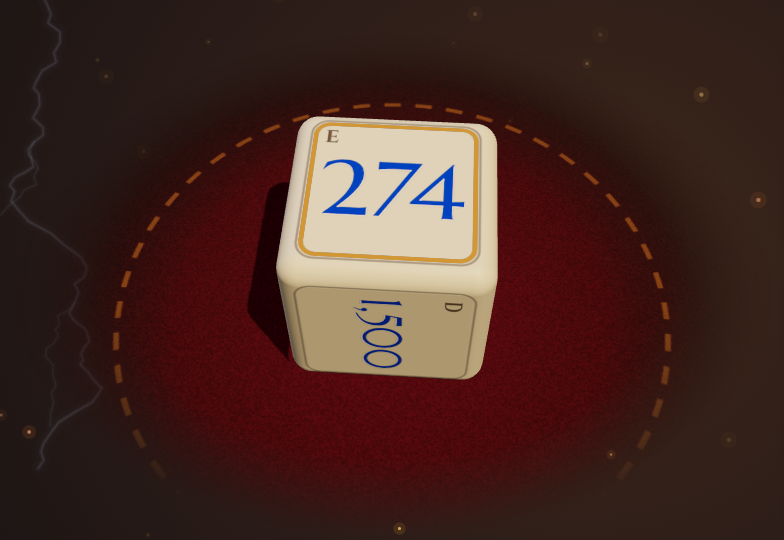
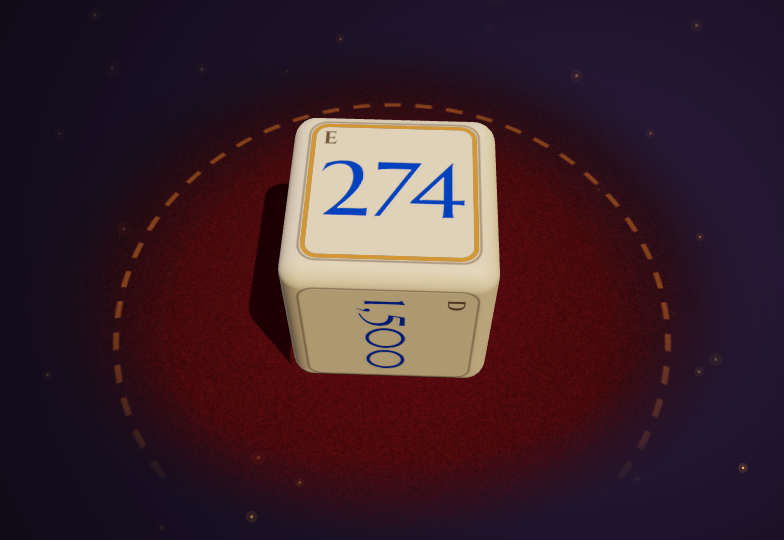
Switch the page from brown to a plum night palette
The brown background was too close in tone to the gold and crimson felt,
so nothing stood out. Plum lets the gold, parchment and felt read clearly
and ties in with the violet magic effect.

- Page background, theme-color and manifest colours are now plum
- Felt mat edge fades through crimson-plum instead of brown
- Dialog backdrop tinted to match
- Share image re-rendered on plum

diff --git a/src/style.css b/src/style.css
@@ -7,8 +7,9 @@
 @import '@fontsource/eb-garamond/400-italic.css';
 
 :root {
-  --table: #120d0b;
-  --table-2: #2a1a12;
+  --table: #0b0712;
+  --table-2: #1c1228;
+  --table-glow: #2f1d40;
   --gold: #c8902a;
   --gold-soft: #e4b965;
   --parchment: #f1e6cf;
@@ -32,7 +33,7 @@ body {
   font-family: var(--font-body);
   font-size: 18px;
   background:
-    radial-gradient(ellipse at 50% 35%, #3a2416 0%, var(--table-2) 35%, var(--table) 80%) fixed,
+    radial-gradient(ellipse at 50% 35%, var(--table-glow) 0%, var(--table-2) 35%, var(--table) 80%) fixed,
     var(--table);
   -webkit-tap-highlight-color: transparent;
 }
@@ -272,7 +273,7 @@ kbd {
   background: linear-gradient(180deg, var(--parchment), var(--parchment-2));
   box-shadow: 0 30px 80px rgba(0, 0, 0, 0.7);
 }
-.modal::backdrop { background: rgba(8, 5, 3, 0.75); backdrop-filter: blur(3px); }
+.modal::backdrop { background: rgba(11, 7, 18, 0.75); backdrop-filter: blur(3px); }
 .modal form { display: flex; flex-direction: column; gap: 14px; padding: 22px 22px 24px; }
 .modal h2 { margin: 0; font-family: var(--font-display); font-size: 1.4rem; color: #5a3a10; }
 .modal .sub { margin: 0; color: var(--ink-soft); font-size: 1rem; }

diff --git a/src/die.js b/src/die.js
@@ -489,8 +489,8 @@ function makeFeltTexture() {
   const g = ctx.createRadialGradient(S / 2, S / 2, 0, S / 2, S / 2, S / 2);
   g.addColorStop(0, 'rgba(100, 24, 30, 1)');
   g.addColorStop(0.3, 'rgba(80, 18, 24, 1)');
-  g.addColorStop(0.42, 'rgba(52, 14, 16, 0.75)');
-  g.addColorStop(0.56, 'rgba(30, 14, 10, 0)');
+  g.addColorStop(0.42, 'rgba(50, 14, 34, 0.75)');
+  g.addColorStop(0.56, 'rgba(28, 18, 40, 0)');
   ctx.fillStyle = g;
   ctx.fillRect(0, 0, S, S);
 

diff --git a/design/og-image.html b/design/og-image.html
@@ -8,7 +8,7 @@
   html, body { margin: 0; }
   .card {
     width: 1200px; height: 630px; position: relative; overflow: hidden;
-    background: radial-gradient(ellipse at 30% 50%, #3a2416 0%, #2a1a12 35%, #120d0b 85%);
+    background: radial-gradient(ellipse at 30% 50%, #2f1d40 0%, #1c1228 35%, #0b0712 85%);
     color: #f1e6cf; font-family: 'EB Garamond', Georgia, serif;
   }
   .die {

diff --git a/index.html b/index.html
@@ -3,7 +3,7 @@
   <head>
     <meta charset="UTF-8" />
     <meta name="viewport" content="width=device-width, initial-scale=1, viewport-fit=cover" />
-    <meta name="theme-color" content="#120d0b" />
+    <meta name="theme-color" content="#0b0712" />
     <meta name="color-scheme" content="dark" />
 
     <!-- Primary SEO -->
